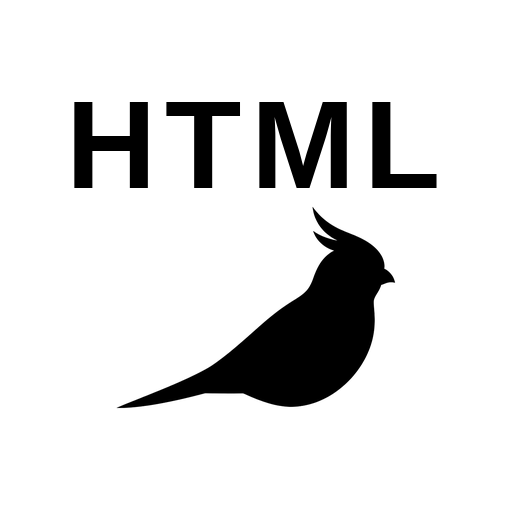
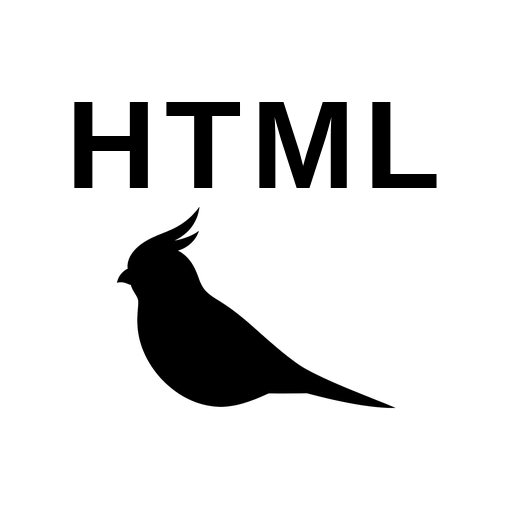
Face the bird left and use it on the empty state

Changed region(s): [[0.2188, 0.4062, 0.7812, 0.8125]]

diff --git a/index.html b/index.html
@@ -83,15 +83,15 @@ iframe{width:100%;height:100%;border:0;background:#fff;display:block}
 }
 .empty-hit{
   width:min(86vw,340px);aspect-ratio:1.15;max-height:46vh;
-  border:1.5px dashed #3a4656;border-radius:22px;
+  border:1px solid #5c6b7c;border-radius:22px;
   display:flex;flex-direction:column;align-items:center;justify-content:center;gap:10px;
   color:var(--muted);background:transparent;
   -webkit-tap-highlight-color:transparent;touch-action:manipulation;cursor:pointer;
 }
 .empty-hit:active{border-color:#7dd3fc;color:#d7eef9;background:rgba(125,211,252,.06)}
-.empty-hit svg{width:28px;height:28px;opacity:.7}
+.empty-hit img{width:min(46vw,168px);height:auto;display:block}
 .empty-hit span{font-size:.92rem;font-weight:700;letter-spacing:.04em;color:#d5dde6}
-.empty-hit small{font-size:.72rem;font-weight:500;opacity:.7}
+.empty-hit small{font-size:.72rem;font-weight:500;opacity:.7;letter-spacing:.08em}
 .sheet{
   position:fixed;z-index:6;left:0;right:0;bottom:0;
   height:min(52vh,420px);background:#1a222c;border-top:1px solid var(--line);
@@ -159,13 +159,10 @@ body.dragging .empty-hit{
   <iframe id="frame" title="view" sandbox="allow-scripts allow-forms allow-modals allow-popups"></iframe>
   <div class="empty" id="empty">
     <div class="brand">HTML Viewer</div>
-    <button type="button" class="empty-hit" id="paste2" aria-label="貼る">
-      <svg viewBox="0 0 24 24" fill="none" stroke="currentColor" stroke-width="1.7" stroke-linecap="round" stroke-linejoin="round">
-        <rect x="6" y="7" width="12" height="14" rx="2"/>
-        <path d="M9 7V5.8A1.8 1.8 0 0 1 10.8 4h2.4A1.8 1.8 0 0 1 15 5.8V7"/>
-      </svg>
-      <span>ここに貼る</span>
-      <small>ドロップでもOK</small>
+    <button type="button" class="empty-hit" id="paste2" aria-label="Paste or drop HTML">
+      <img src="bird.png" alt="">
+      <span>Paste or drop</span>
+      <small>HTML</small>
     </button>
   </div>
 </div>
